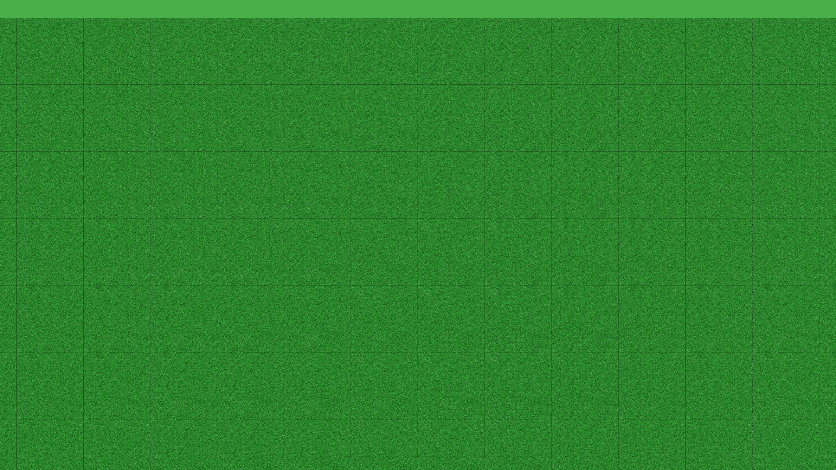
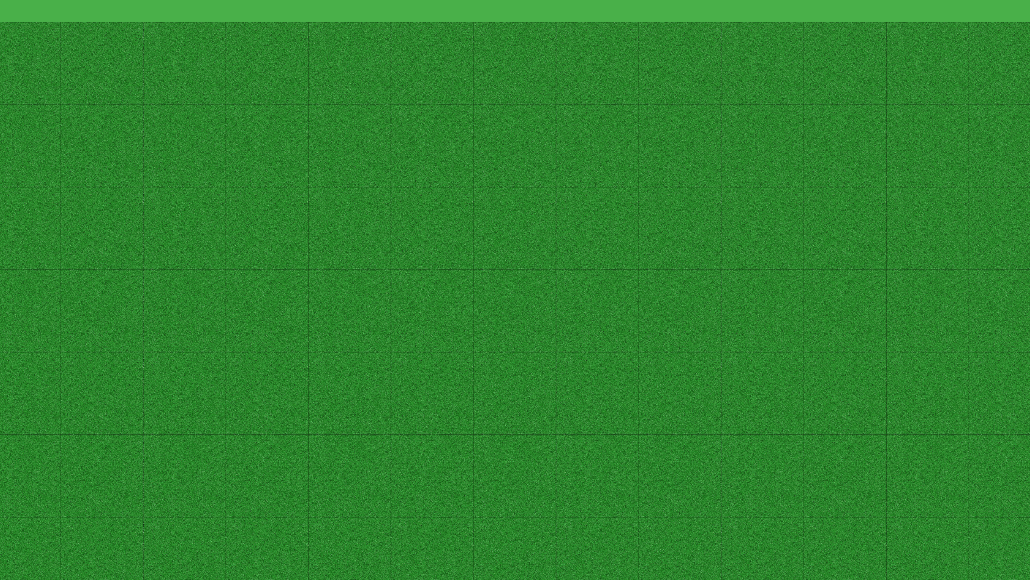
MOVEMENT FINALLY FUCKING WORKS GET INNNNNNNNNNNN

diff --git a/Assets/Scripts/Game Manager.cs b/Assets/Scripts/Game Manager.cs
@@ -42,16 +42,6 @@ public class GameManager : MonoBehaviour
         Grids = new List<GameObject>();
         this.GridActive = true;
 
-        if (this.Width > 17 && this.Height > 8)
-            IsMoveable = true;
-        else
-            IsMoveable = false;
-
-        LevelView.GetComponent<LevelView>().width = this.Width;
-        LevelView.GetComponent<LevelView>().height = this.Height;
-
-        LevelView.GetComponent<LevelView>().UpdateBounds();
-
         // Create preset rotations for the 3D Tile Object
         InstantiatePresetRoadRotations();
 
@@ -64,6 +54,10 @@ public class GameManager : MonoBehaviour
         // Toggle grid off by default
         ToggleGridOutline();
 
+        // Set dimentions for the level view
+        LevelView.GetComponent<LevelView>().width = this.Width;
+        LevelView.GetComponent<LevelView>().height = this.Height;
+        LevelView.GetComponent<LevelView>().UpdateBounds();
     }
 
     private void OnApplicationQuit()

diff --git a/Assets/Scripts/LevelView.cs b/Assets/Scripts/LevelView.cs
@@ -17,9 +17,18 @@ public class LevelView : MonoBehaviour
     public void UpdateBounds()
     {
         minX = 8.4f;
-        maxY = 3.02f;
-        minY = 0.5f - height - 3.02f;
-        maxX = width - 0.5f + 8.4f;
+        minY = -3.02f;
+
+        if (width > 17)
+            maxX = minX + width - 17.8f; // 17.8 is the level view width
+        else
+            maxX = minX;
+
+        if (height > 8)
+            maxY = minY - height + 8.52f; // 8.52 is the level view height
+        else
+            maxY = minY;
+
     }
 
     void Update()
@@ -58,7 +67,7 @@ public class LevelView : MonoBehaviour
 
         // Clamp the new position within the defined boundaries
         newPosition.x = Mathf.Clamp(newPosition.x, minX, maxX);
-        newPosition.y = Mathf.Clamp(newPosition.y, minY, maxY);
+        newPosition.y = Mathf.Clamp(newPosition.y, maxY, minY);
 
         transform.position = newPosition;
 

diff --git a/Assets/Scripts/New Level UI.cs b/Assets/Scripts/New Level UI.cs
@@ -18,8 +18,6 @@ public class NewLevelUI : MonoBehaviour
         string levelWidth = WidthInputField.text;
         string levelHeight = HeightInputField.text;
 
-        
-
         string path = LevelDirectory + levelName + ".txt";
 
         PlayerPrefs.SetString("levelName", levelName);
